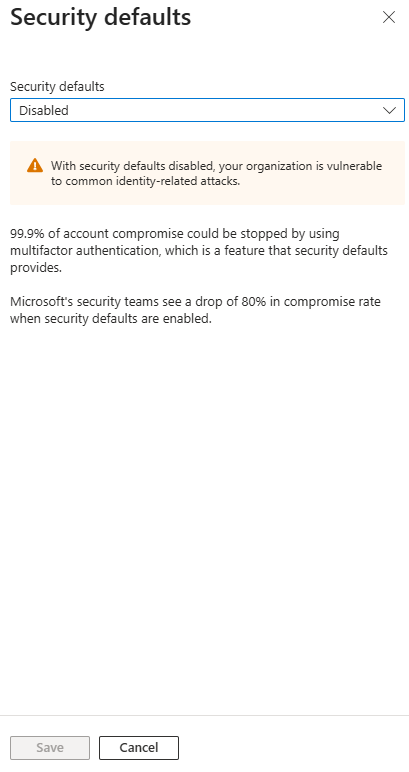
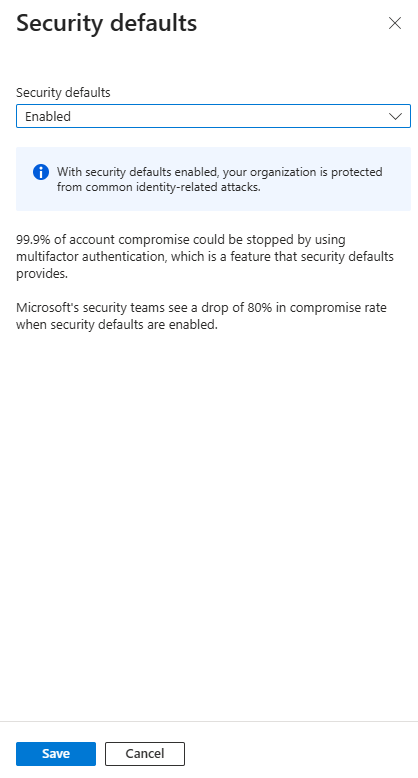
docs: fix sd-test-b.png; R-74 generic scan rules; README row
docs/images/sd-test-b.png: replaced. The committed file was the first
capture, with Disabled selected and Save greyed out, which doesn't show
test B. The new capture has Enabled chosen, no Identity Protection
warning and Save active, as P-02 and the README row describe.

R-74: the planned whole-repo test uses generic rules only (any
*.onmicrosoft.com other than <tenant>.onmicrosoft.com, any GUID outside
a labelled allowlist), never the real values, plus a one-off gitleaks
scan of the full history. Agreed with entra-auth-baseline (its R-29).

docs/images/README.md: the emergencyaccess-role-assignable.png row now
says what the shot shows; members, owners and roles were checked in the
portal.

diff --git a/docs/REQUIREMENTS.md b/docs/REQUIREMENTS.md
@@ -158,7 +158,7 @@ Goal: GitHub Actions signs in to Entra with no stored secret, deploys Conditiona
 | R-71 | P2 | Guest leaver: at the end of the lab the guest's sign-in is blocked and it's removed from `LAB-Guests`, not deleted (matches the leaver rule in script 05). The synced partner account (R-72) leaves the hybrid way: disabled in AD, and disabled in Entra by the next sync. | Before/after screenshot |
 | R-72 | P2 | **Synced partner account (internal guest).** One test partner account is created in AD, inside the Cloud Sync scope, and syncs to Entra with `UserType` = Guest, so the lab shows both kinds of guest: invited through B2B (R-67, R-68) and managed on-premises. It holds no roles and has per-user MFA enforced (R-65). **Where it lives:** its own OU at the domain root, `OU=Partners`, outside `OU=CorpUsers`. Under the root OU but missing from the CSV, `05 -ProcessLeavers` would treat it as a leaver (R-12, R-16); outside it, the scripts never see it (R-06), so they stay unchanged. **Mapping:** a **Direct** Cloud Sync mapping, `msDS-cloudExtensionAttribute1` to `UserType`, default `Member`, added by the Hybrid Identity Administrator. This is Microsoft's first documented option: every synced user carries an explicit value before the mapping is enabled. Microsoft's example attribute, `extensionAttribute1`, only exists in forests prepared for Exchange (`Get-ADUser` rejected it here), so the lab uses `msDS-cloudExtensionAttribute1`, which Microsoft's Lifecycle Workflows guide uses as a Cloud Sync Direct source. `Set-UserTypeMarker.ps1` (lab tool, `C:\LabTools`) set it to `Member` on every user under `OU=CorpUsers`: it never overwrites another value (reports Conflict), supports `-WhatIf` and reads each change back. Script 05 manages only `Department`, `Title`, `Office`, `GivenName`, `Surname`, `DisplayName` and groups, so it never changes the marker. **Rejected:** an expression mapping. `IIF` fails when its source attribute is empty (Microsoft's expressions reference); a `Switch` with an empty-string key gave parse errors in the Cloud Sync expression builder for every test value (cause not found; nothing applied). **Done 2026-10-29 to 2026-10-30, in this order, each step checked with a Graph count of synced users by `userType`:** (1) `OU=Partners` created and added to the Cloud Sync scope: `Member` 100 before and after; provisioning log empty (nothing to provision). (2) `Set-UserTypeMarker.ps1 -WhatIf`: 100 what-if, 0 conflict; real run: 100 updated, each read back (output kept in `C:\LabEvidence\raw`); Restart sync; `Member` 100. (3) Direct mapping saved (the editor needs **Apply**, then **Save schema**; it showed no *Apply this mapping* option); `Member` 100. Provision on demand for `jsmith` (by distinguished name): import `msDS-cloudExtensionAttribute1` = `Member`, export `UserType` = `Member`, "Successfully updated", so the mapping applies on updates, not only on creation. (4) `lab.partner` created in `OU=Partners` with the marker `Guest`. **Slip:** the first `New-ADUser` run failed the domain password policy but still left the account, disabled and with no password; it was finished in place (password reset, change at next logon, then enabled), not recreated. Read back: enabled, marker `Guest`. Provision on demand: import `Guest`, `accountDisabled` `False`; export `UserType` = `Guest`. Count: `Member` 100, `Guest` 1. (5) `Enable-SyncedUserMfa.ps1` as the Authentication Policy Administrator: 101 synced users, 1 updated (the partner), 100 unchanged. Microsoft calls internal guests a legacy pattern and recommends B2B; the lab keeps one to show the difference. Whether a synced Guest appears to Conditional Access as `internalGuest` is *unverified* until `LAB-004` is read back. | Graph counts by `userType` at each step; `Set-UserTypeMarker.ps1` output; `cloud-sync-scope-before.png` / `cloud-sync-scope-after.png`; `cloud-sync-usertype-mapping.png`; `usertype-ondemand-member.png` (jsmith); `usertype-ondemand-guest.png` (partner); `Enable-SyncedUserMfa.ps1` summary |
 | R-73 | P1 | **App management policy (decided 2026-11-02).** The **Block password addition** restriction (`passwordAddition` and `symmetricKeyAddition`, on applications and service principals) applies to `lab-ca-reader` and `lab-ca-deployer` only (**Applies to: Select applications**), so no other app in the tenant, including entra-auth-baseline's, is affected. It blocks secrets, not certificates; R-50's CI check covers certificates. **Who sets it:** a temporary `adm-` account holding Security Administrator and Cloud Application Administrator, the documented prerequisite. This is an R-62 deviation (two roles on one account): the User Administrator creates the account, the Authentication Policy Administrator enforces per-user MFA (R-65), the Privileged Role Administrator assigns both roles, and on the same day removes both roles; sign-in is then blocked, not deleted. The same account removes the app owners (R-50) before its roles go. **Order:** apps created (`User.Read` removed and the R-51 application permissions requested, by the owner) and consented, federated credentials added, policy saved, refusal test, owners removed, temporary account retired. **Licence:** Microsoft's Workload ID FAQ lists application management policies as Free (opened 2026-11-02); a Microsoft Q&A answer says Workload ID Premium. Settled only by the refusal test. A Workload ID Premium trial is not started. The portal can't list a custom (per-app) policy; it's read back through Graph. Removed at the end of the lab with the apps. **Done 2026-11-08**, by `adm-jim.baker` (R-62 third deviation), in the order above. (1) **Policy saved:** Block password addition, On, Applies to: Select applications; the picker listed each app twice (app registration and enterprise application) and all four were selected (`app-mgmt-policy-picker.png`). (2) **Graph read-back** as the temporary account, so Security Administrator plus Cloud Application Administrator can read it (Microsoft names Global Reader as least privileged): one custom policy, `IsEnabled True`, restrictions `passwordAddition` and `symmetricKeyAddition` both `enabled`, `restrictForAppsCreatedAfterDateTime` shown as `1/1/0001` (no cut-off date, so both apps are covered), applied to exactly four objects: each app once as `application` and once as `servicePrincipal`. Microsoft confirms the portal's Block password addition sets both restriction types (*Configure restrictions on how applications can be configured*, opened 2026-11-08). (3) **Refusal test, portal:** as the owner (`adm-daniel.kim`, Application Developer), **New client secret** is greyed out on both apps with a banner that calls the policy "tenant-wide"; that is the portal's wording, not the scope. **Control:** as the temporary account, Demo App (an SC-300 leftover outside the policy) shows **New client secret** enabled and no banner. (4) **Refusal test, API (decided 2026-11-08, option B2):** the owner can't consent to `Application.ReadWrite.All` (admin consent required), so the test was run by the temporary account as Cloud Application Administrator, which can manage credentials on any app: `Add-MgApplicationPassword` on each app registration failed with `CredentialTypeNotAllowedAsPerAppPolicy` ("Credential type not allowed as per assigned policy"). **So the service enforces the policy on Entra ID Free; the Workload ID FAQ was right and the Q&A answer wrong.** The consent it needed was removed the same session (setup role table). Secrets and certificates read back 0 on all four objects before and after. (5) **Owners removed** (setup role table). (6) **Temporary account retired** (R-62). | Refusal test: adding a client secret to each app fails with a policy error, in the portal as the owner (`lab-ca-reader-refusal.png`, `lab-ca-deployer-refusal.png`) and through Graph as Cloud Application Administrator (`app-mgmt-policy-api-refusal.png`); control app not blocked (`app-mgmt-policy-control-demo-app.png`); Graph read-back of the custom policy and its assignment (`app-mgmt-policy-readback.png`); credentials 0 (`LabApps-AppSecrets.png`); the temporary account shown with no roles and sign-in blocked (Graph, 2026-11-08) |
-| R-74 | P1 | **GitHub repository security settings (decided 2026-11-17).** Set by the repo owner in the repository's Settings, before trial step 7. **Advanced Security:** push protection On; secret scanning on (public repo default); private vulnerability reporting On; dependency graph and Dependabot alerts On; Dependabot security and version updates Off (no package manifests, and version updates would move the v4 action pins kept since 2026-11-11); CodeQL default setup On (it analyses GitHub Actions workflows, not PowerShell: GitHub Docs *Code scanning with CodeQL*, opened 2026-11-17; PSScriptAnalyzer covers the scripts, R-23); AI scan and agentic autofix Off (they use AI credits). **Actions → General:** only actions created by GitHub allowed, and actions must be pinned to a full-length commit SHA (enforces R-61 and D5); workflow permissions read-only (each Graph job adds `id-token: write` itself, R-54); fork pull request workflows need approval; Actions can't create or approve pull requests. **Ruleset `main-protection`** on the default branch, Active, no bypass: restrict deletions and block force pushes. **Not required:** pull requests and status checks, because changes are pushed straight to `main` and `graph-tests` runs only after a push (R-54); a required status check would block a direct push (community source, *unverified*). A future history rewrite like R-58's needs the ruleset turned off first. **Collaborators and deploy keys:** none besides the owner. **Gap (planned, not built):** push protection matches known token formats only, so it doesn't catch the real tenant domain, tenant ID or object IDs (R-58); `tests/PolicyFiles.Tests.ps1` scans `policies/` only. A test in the `test` job over every tracked file, failing on a real `onmicrosoft.com` domain and on GUIDs outside an allow list (the R-59 role template IDs, the Restricted Guest User ID, the passkey AAGUID), would close it | Settings set and checked by the owner (2026-11-17). **Run #40** (manual, from `main`, after the change): `test` 192/0/9/4, `ca-deploy` approved and skipped by D2 with every token and credential check PASS, `graph-tests` 2/0/0; no allowed-actions or pinning error, so the settings block nothing. Security tab: secret scanning "No secrets found"; first CodeQL scan finished green with no code scanning alerts. Whole-repo scan test: planned |
+| R-74 | P1 | **GitHub repository security settings (decided 2026-11-17).** Set by the repo owner in the repository's Settings, before trial step 7. **Advanced Security:** push protection On; secret scanning on (public repo default); private vulnerability reporting On; dependency graph and Dependabot alerts On; Dependabot security and version updates Off (no package manifests, and version updates would move the v4 action pins kept since 2026-11-11); CodeQL default setup On (it analyses GitHub Actions workflows, not PowerShell: GitHub Docs *Code scanning with CodeQL*, opened 2026-11-17; PSScriptAnalyzer covers the scripts, R-23); AI scan and agentic autofix Off (they use AI credits). **Actions → General:** only actions created by GitHub allowed, and actions must be pinned to a full-length commit SHA (enforces R-61 and D5); workflow permissions read-only (each Graph job adds `id-token: write` itself, R-54); fork pull request workflows need approval; Actions can't create or approve pull requests. **Ruleset `main-protection`** on the default branch, Active, no bypass: restrict deletions and block force pushes. **Not required:** pull requests and status checks, because changes are pushed straight to `main` and `graph-tests` runs only after a push (R-54); a required status check would block a direct push (community source, *unverified*). A future history rewrite like R-58's needs the ruleset turned off first. **Collaborators and deploy keys:** none besides the owner. **Gap (planned, not built):** push protection matches known token formats only, so it doesn't catch the real tenant domain, tenant ID or object IDs (R-58); `tests/PolicyFiles.Tests.ps1` scans `policies/` only. A test in the `test` job over every tracked text file (including `docs/`, every `*.md` and `data/`) would close it, with **generic rules only** (agreed with entra-auth-baseline, 2026-11-17, its R-29): fail on any `*.onmicrosoft.com` other than `<tenant>.onmicrosoft.com`, and on any GUID not on a named allowlist of tenant-independent IDs, each labelled (the R-59 role template IDs and Directory Synchronization Accounts, the Restricted Guest User ID, the Windows Hello AAGUID). The real domain, tenant ID and object IDs never appear in a committed test, rule or allowlist, because that would publish them; exact-value checks, if wanted, stay in a local untracked config. **History:** one `gitleaks` scan of the full history with the same generic rules, report kept outside the repo, because a test of the current files doesn't see earlier commits (R-58's 2026-10-29 check searched for the domain only). **Screenshots:** a text scan can't read images; every PNG stays a manual check against the sanitising checklist | Settings set and checked by the owner (2026-11-17). **Run #40** (manual, from `main`, after the change): `test` 192/0/9/4, `ca-deploy` approved and skipped by D2 with every token and credential check PASS, `graph-tests` 2/0/0; no allowed-actions or pinning error, so the settings block nothing. Security tab: secret scanning "No secrets found"; first CodeQL scan finished green with no code scanning alerts. Whole-repo scan test: planned |
 
 Out of scope for Phase 3: enforcing any policy, keeping any paid licence after the trial, sign-in risk policies (need P2), leaver session revocation, and alerting on emergency account sign-ins (Microsoft recommends this; noted as a gap).
 

diff --git a/docs/images/README.md b/docs/images/README.md
@@ -51,7 +51,7 @@ Finish
 | `breakglass-assigned-roles.png` | Each emergency access account's **Assigned roles**, viewed as the Privileged Role Administrator, in two stacked captures (BG-Admin01, then BG-Admin02): Global Administrator, resource Directory (Organization), assignment path **Direct**, Built-in. The signed-in account's domain and tenant name are redacted. The Free view has no assignment type or end time; active and permanent is shown by the Graph eligibility check in P-03 (`AadPremiumLicenseRequired`) | R-62, P-03 |
 | `breakglass-passkeys.png` | Each emergency access account's **Security info** in My Sign-Ins, signed in as that account, in two stacked captures (BG-Admin01, then BG-Admin02): Password plus one **Passkey (Device bound), Windows Hello**, and no other method. UPN domains and passkey device names redacted. Evidence for strong authentication on separate devices, replacing the phone-based methods first registered (see P-03) | P-03, R-62 |
 | `breakglass-passkey-signins.png` | Entra sign-in logs (interactive), filtered to each emergency access account, in stacked captures: BG-Admin01 (2026-10-26) then BG-Admin02 (2026-10-27). For each: the list showing an **Interrupted** entry followed seconds later by a **Success** entry; the Interrupted entry's **Authentication Details** (**Passkey (device-bound)**, succeeded, authentication policy per-user MFA); and the Success entry's **Basic info** (Status **Success**, Multifactor authentication, "MFA requirement satisfied by claim in the token"). Passkey names, Request and Correlation IDs and the UPN domain redacted. Captured 2026-10-30, before the 7-day Free retention expired. Evidence that each account actually signs in with its passkey | P-03, R-65 |
-| `emergencyaccess-role-assignable.png` | `EmergencyAccess` group properties after creation on trial day 1 (2026-11-15), saved state: **Microsoft Entra roles can be assigned to the group: Yes**, 2 members, 0 owners, no assigned roles. Object ID redacted | R-53 (D7), P-03, R-66 |
+| `emergencyaccess-role-assignable.png` | `EmergencyAccess` > **Properties** after creation on trial day 1 (2026-11-15), saved state: Security, Assigned, **Microsoft Entra roles can be assigned to the group: Yes**. Object ID redacted. Members (2), owners (0) and assigned roles (none) were checked in the portal and aren't in this shot (P-03) | R-53 (D7), P-03, R-66 |
 | `bg01-signin-authdetails.png` | Entra sign-in log, BG-Admin01's Interrupted entry of 2026-11-16, **Authentication details** tab, after the Windows passkey profile was assigned to `EmergencyAccess`: authentication policy per-user MFA; **Passkey (device-bound)**, succeeded, "User approved" (2026-11-16T05:28:48Z); then Previously satisfied. Top bar cropped; authentication method detail redacted | P-03, R-66 |
 | `bg02-signin-authdetails.png` | Same as above for BG-Admin02 (2026-11-16T06:44:00Z) | P-03, R-66 |
 | `passkey-profile-targets.png` | Passkey (FIDO2) settings, **Enable and target > Include**, after the 2026-11-16 change, in two stacked captures: **Include** (Enable **On**; All users → Default passkey profile; `EmergencyAccess` → Microsoft Entra Passkey for Windows), then **Exclude** ("No targets added yet"). The portal's note that profiles are evaluated independently and a user scoped into **any** profile can register is visible. Top bar not captured | P-03, R-66 |
